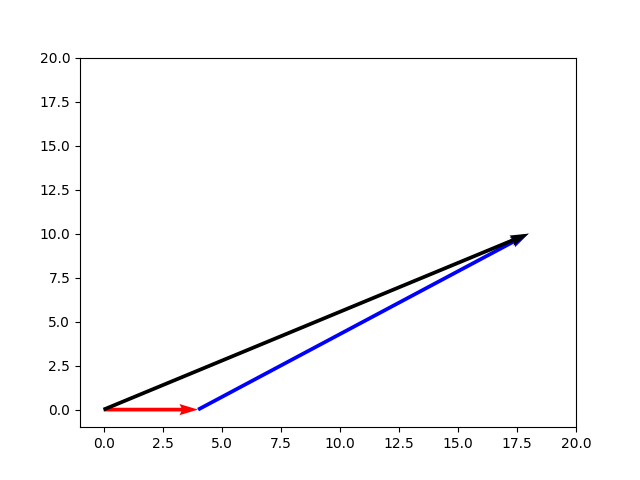
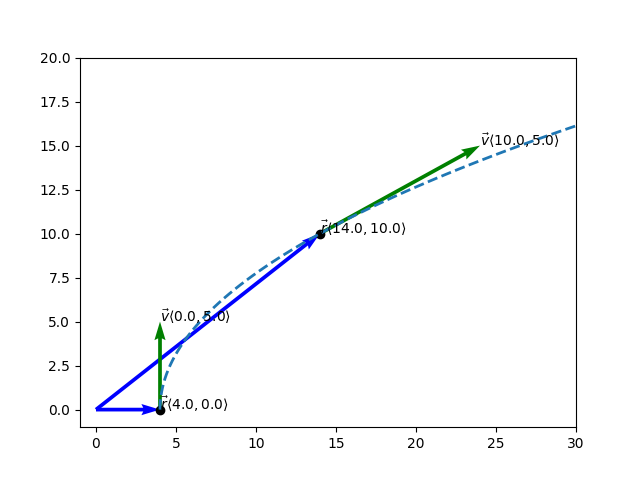
:pencil2: Fix 3.3 plot

diff --git a/03 Motion in Two or Three Dimensions/figures/3_03.py b/03 Motion in Two or Three Dimensions/figures/3_03.py
@@ -1,14 +1,33 @@
 import numpy as np
 import matplotlib.pyplot as plt
 
-soa = np.array([[0, 0, 4, 0], [4, 0, 14, 10], [0, 0, 18, 10]])
-X, Y, U, V = zip(*soa)
+rx = lambda t: (4.0 + (2.5) * t ** 2)
+ry = lambda t: 5.0 * t
+
+vx = lambda t: 5.0 * t
+vy = lambda t: 5.0 + t * 0
+
+x = np.linspace(0, 5, 100)
+
+rvec = np.array([[0, 0, rx(0), ry(0)], [0, 0, rx(2), ry(2)]])
+vvec = np.array([[rx(0), ry(0), vx(0), vy(0)], [rx(2), ry(2), vx(2), vy(2)]])
+rX, rY, rZ, rV = zip(*rvec)
+vX, vY, vZ, vV = zip(*vvec)
 plt.figure()
 ax = plt.gca()
-ax.quiver(X, Y, U, V, angles='xy', scale_units='xy', scale=1, color=['r','b','black'])
-ax.set_xlim([-1, 20])
+ax.quiver(rX, rY, rZ, rV, angles='xy', scale_units='xy', scale=1, color='b')
+ax.quiver(vX, vY, vZ, vV, angles='xy', scale_units='xy', scale=1, color='g')
+ax.set_xlim([-1, 30])
 ax.set_ylim([-1, 20])
 plt.draw()
+plt.plot(rx(x), ry(x), linestyle='--', lw=2)
+plt.scatter([rx(0), rx(2)], [ry(0), ry(2)], color='black')
+
+for vec in rvec:
+    plt.annotate(r'$\vec r\langle{}, {}\rangle$'.format(vec[2], vec[3]), [vec[2], vec[3]])
+
+for i in range(0, len(vvec)):
+    plt.annotate(r'$\vec v\langle{}, {}\rangle$'.format(vvec[i][2], vvec[i][3]), [rvec[i][2] + vvec[i][2], rvec[i][3] + vvec[i][3]])
 
 plt.savefig('3_03')
 plt.show()
